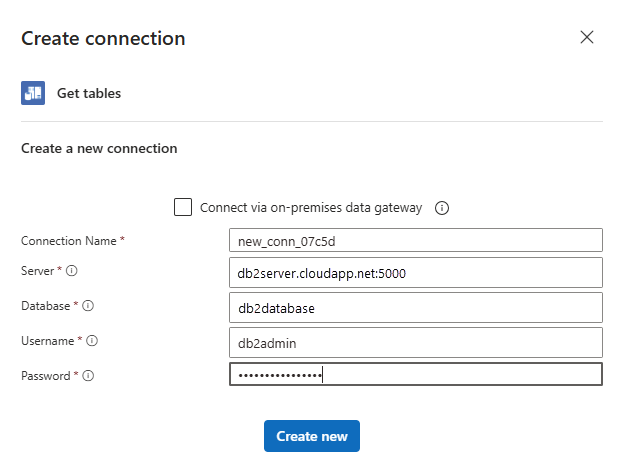
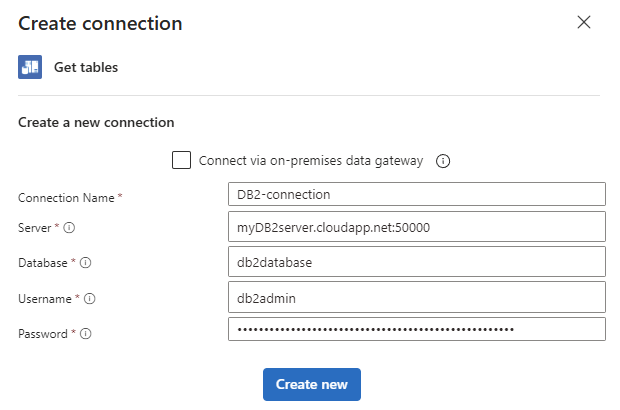
Partial refresh updates

diff --git a/articles/connectors/connectors-create-api-db2.md b/articles/connectors/connectors-create-api-db2.md
@@ -16,11 +16,11 @@ ms.custom: sfi-image-nochange
 
 When your automated integration workflow needs to work with resources in your DB2 database, use the [**DB2** connector](/connectors/db2/). For example, your workflow can read, list rows, add rows, change rows, delete rows, and so on. Your workflow can include actions that return data from your database and make that output available for other actions to use in your workflow.
 
+The DB2 connector includes a Microsoft client that communicates with remote DB2 servers across a TCP/IP network. So, you can use this connector to access cloud databases such as IBM DB2 for Windows running in Azure virtualization.
+
 This guide shows how to connect your workflow to your DB2 database and perform various operations on that database.
 
 ## Supported platforms and versions
-
-The DB2 connector includes a Microsoft client that communicates with remote DB2 servers across a TCP/IP network. Use this connector to access cloud databases such as IBM DB2 for Windows running in Azure virtualization. You can also access on-premises DB2 databases after you [install and set up the on-premises data gateway](../logic-apps/logic-apps-gateway-connection.md).
 
 The DB2 connector supports the following IBM DB2 platforms and versions along with IBM DB2 compatible products that support Distributed Relational Database Architecture (DRDA) SQL Access Manager (SQLAM) versions 10 and 11:
 
@@ -30,7 +30,7 @@ The DB2 connector supports the following IBM DB2 platforms and versions along wi
 | IBM DB2 for i | 7.3, 7.2, 7.1 |
 | IBM DB2 for LUW | 11, 10.5 |
 
-## Supported database operations
+## Connector technical reference
 
 The DB2 connector supports the following database operations, which map to the corresponding actions in the connector:
 
@@ -42,6 +42,8 @@ The DB2 connector supports the following database operations, which map to the c
 | Add one row using INSERT | Insert row |
 | Edit one row using UPDATE | Update row |
 | Remove one row using DELETE | Delete row |
+
+For more information about the connector and these actions, see [DB2 connector](/connectors/db2/).
 
 ## Prerequisites
 
@@ -60,85 +62,105 @@ The DB2 connector supports the following database operations, which map to the c
   - [Create a Consumption logic app workflow](../logic-apps/quickstart-create-example-consumption-workflow.md)
   - [Create a Standard logic app workflow](../logic-apps/create-single-tenant-workflows-azure-portal.md)
 
+- To access on-premises DB2 databases, you need to [install and set up the on-premises data gateway](../logic-apps/logic-apps-gateway-connection.md).
+
 <a name="add-db2-action"></a>
 
-## Add DB2 action - Get tables
+## Add a DB2 action
 
-1. In the [Azure portal](https://portal.azure.com), open your logic app in the Logic App Designer.
+The following steps show how to add a DB2 action, for example, **Get tables**, to your workfklow.
 
-1. Under the trigger, choose **New step**.
+1. In the [Azure portal](https://portal.azure.com), open your logic app resource and workflow in the designer.
 
-1. In the search box, enter *db2*.
+1. Follow the [general steps](../logic-apps/add-trigger-action-workflow.md#add-action) to add the **DB2** action named **Get tables**.
 
-1. For this example, under the actions list, select **Get tables (Preview)**.
+   The connection information pane opens so you can provide details to connect your DB2 database.
 
-   :::image type="content" source="./media/connectors-create-api-db2/select-db2-action.png" alt-text="Screenshot that shows the Logic App Designer with Get tables highlighted.":::
+1. Follow the steps to create a connection for a [cloud-based database](#cloud-connection) or [on-premises database](#on-premises-connection), then return here to continue.
 
-   The designer prompts you to provide connection details for your DB2 database.
+1. After you successfully create the connection, the **Get tables** action information pane appears and shows that no other information is necessary:
 
-1. Follow the steps for creating connections for [cloud databases](#cloud-connection) or [on-premises databases](#on-premises-connection).
+   :::image type="content" source="./media/connectors-create-api-db2/get-tables-action.png" alt-text="Screenshot shows the designer, workflow, and Get tables action.":::
+
+1. Continue to [Test your workflow and view output tables](#view-output-tables).
+
+## Set up your DB2 connection
+
+Follow the steps based on whether you have a cloud or on-premises DB2 database. After you provide the necessary connection details, select **Create new**, and return to the previous steps.
+
+Before you create a connection to an on-premises database, make sure that you [install and set up the on-premises data gateway](../logic-apps/logic-apps-gateway-connection.md).
 
 <a name="cloud-connection"></a>
 
-## Connect to cloud DB2
-
-To set up your connection, provide these connection details, select **Create**, and then save your logic app:
+### [Cloud](#tab/cloud)
 
 | Property | Required | Description |
 |----------|----------|-------------|
-| **Connect via on-premises gateway** | No | Applies only for on-premises connections |
-| **Connection Name** | Yes | The name for your connection, for example, *MyLogicApp-DB2-connection* |
-| **Server** | Yes | The address or alias and port number for your DB2 server, for example, *myDB2server.cloudapp.net:50000* <br><br>**Note**: This value is a string that represents a TCP/IP address or alias, either in IPv4 or IPv6 format, followed by a colon and a TCP/IP port number. |
-| **Database** | Yes | The name for your database <br><br>**Note**: This value is a string that represents a DRDA Relational Database Name (RDBNAM): <br><br>- DB2 for z/OS accepts a 16-byte string where the database is known as an *IBM DB2 for z/OS* location. <br>- DB2 for i accepts an 18-byte string where the database is known as an *IBM DB2 for i* relational database. <br>- DB2 for LUW accepts an 8-byte string. |
-| **Username** | Yes | Your user name for the database <br><br>**Note**: This value is a string whose length is based on the specific database: <br><br>- DB2 for z/OS accepts an 8-byte string. <br>- DB2 for i accepts a 10-byte string. <br>- DB2 for Linux or UNIX accepts an 8-byte string. <br>- DB2 for Windows accepts a 30-byte string. |
-| **Password** | Yes | Your password for the database |
+| **Connect via on-premises gateway** | No | Applies only to on-premises connections. |
+| **Connection Name** | Yes | The name for your connection, for example, *DB2-connection*. |
+| **Server** | Yes | The address or alias and port number for your DB2 server, for example, *myDB2server.cloudapp.net:50000*. <br><br>**Note**: This value is a string that represents a TCP/IP address or alias, either in IPv4 or IPv6 format, followed by a colon and a TCP/IP port number. |
+| **Database** | Yes | The name for your database. <br><br>**Note**: This value is a string that represents a DRDA Relational Database Name (RDBNAM): <br><br>- DB2 for z/OS accepts a 16-byte string where the database is known as an *IBM DB2 for z/OS* location. <br><br>- DB2 for i accepts an 18-byte string where the database is known as an *IBM DB2 for i* relational database. <br><br>- DB2 for LUW accepts an 8-byte string. |
+| **Username** | Yes | Your user name for the database. <br><br>**Note**: This value is a string whose length is based on the specific database: <br><br>- DB2 for z/OS accepts an 8-byte string. <br><br>- DB2 for i accepts a 10-byte string. <br><br>- DB2 for Linux or UNIX accepts an 8-byte string. <br><br>- DB2 for Windows accepts a 30-byte string. |
+| **Password** | Yes | Your password for the database. |
 
 For example:
 
-:::image type="content" source="./media/connectors-create-api-db2/create-db2-cloud-connection.png" alt-text="Screenshot that shows the Logic Apps Designer with connection details for cloud-based databases.":::
+:::image type="content" source="./media/connectors-create-api-db2/create-db2-cloud-connection.png" alt-text="Screenshot shows the connection pane for cloud-based databases.":::
 
 <a name="on-premises-connection"></a>
 
-## Connect to on-premises DB2
-
-Before you create a connection, you must already have your on-premises data gateway installed. Otherwise, you can't finish setting up the connection. If you have your gateway installation, continue by providing these connection details, and then choose **Create**.
+### [On-premises](#tab/on-premises)
 
 | Property | Required | Description |
 |----------|----------|-------------|
-| **Connect via on-premises gateway** | Yes | Applies when you want an on-premises connection and shows the on-premises connection properties |
-| **Connection Name** | Yes | The name for your connection, for example, *MyLogicApp-DB2-connection* | 
-| **Server** | Yes | The address or alias and port number for your DB2 server, for example, *myDB2server:50000* <br><br>**Note**: This value is a string that represents a TCP/IP address or alias, either in IPv4 or IPv6 format, followed by a colon and a TCP/IP port number. |
-| **Database** | Yes | The name for your database <br><br>**Note**: This value is a string that represents a DRDA Relational Database Name (RDBNAM): <br>- DB2 for z/OS accepts a 16-byte string where the database is known as an *IBM DB2 for z/OS* location. <br>- DB2 for i accepts an 18-byte string where the database is known as an *IBM DB2 for i* relational database. <br>- DB2 for LUW accepts an 8-byte string. |
-| **Authentication** | Yes | The authentication type for your connection, for example, *Basic* <br><br>**Note**: Select this value from the list, which includes **Basic** or **Windows (Kerberos)**. |
-| **Username** | Yes | Your user name for the database <br><br>**Note**: This value is a string whose length is based on the specific database: <br><br>- DB2 for z/OS accepts an 8-byte string. <br>- DB2 for i accepts a 10-byte string. <br>- DB2 for Linux or UNIX accepts an 8-byte string. <br>- DB2 for Windows accepts a 30-byte string. |
-| **Password** | Yes | Your password for the database |
-| **Gateway** | Yes | The name for your installed on-premises data gateway <br><br>**Note**: Select this value from the list, which includes all the installed data gateways within your Azure subscription and resource group. |
+| **Connect via on-premises gateway** | Yes | Applies only to on-premises connections and shows the on-premises connection properties. |
+| **Connection Name** | Yes | The name for your connection, for example, *DB2-connection*. | 
+| **Server** | Yes | The address or alias and port number for your DB2 server, for example, *myDB2server:50000*. <br><br>**Note**: This value is a string that represents a TCP/IP address or alias, either in IPv4 or IPv6 format, followed by a colon and a TCP/IP port number. |
+| **Database** | Yes | The name for your database. <br><br>**Note**: This value is a string that represents a DRDA Relational Database Name (RDBNAM): <br><br>- DB2 for z/OS accepts a 16-byte string where the database is known as an *IBM DB2 for z/OS* location. <br><br>- DB2 for i accepts an 18-byte string where the database is known as an *IBM DB2 for i* relational database. <br><br>- DB2 for LUW accepts an 8-byte string. |
+| **Authentication** | Yes | The authentication type for your connection, for example, **Windows**. <br><br>**Note**: Select this value from the list, which includes **Basic** or **Windows (Kerberos)**. |
+| **Username** | Yes | Your user name for the database. <br><br>**Note**: This value is a string whose length is based on the specific database: <br><br>- DB2 for z/OS accepts an 8-byte string. <br><br>- DB2 for i accepts a 10-byte string. <br><br>- DB2 for Linux or UNIX accepts an 8-byte string. <br><br>- DB2 for Windows accepts a 30-byte string. |
+| **Password** | Yes | Your password for the database. |
+| **Gateway** | Yes | - **Subscription**: The Azure subscription for the gateway resource. <br><br>- **Gateway**: The name for your gateway resource. <br><br>**Note**: The gateway list shows only the gateway resources available in your Azure subscription and resource group. |
 
 For example:
 
-:::image type="content" source="./media/connectors-create-api-db2/create-db2-on-premises-connection.png" alt-text="Screenshot that shows the Logic Apps Designer with connection details for on-premises databases.":::
+:::image type="content" source="./media/connectors-create-api-db2/create-db2-on-premises-connection.png" alt-text="Screenshot shows the connection pane for on-premises databases.":::
 
-### View output tables
+---
 
-To run your logic app manually, on the designer toolbar, choose **Run**. After your logic app finishes running, you can view the output from the run.
+<a name="view-output-tables"></a>
 
-1. On your logic app menu, select **Overview**.
+### Test your workflow and view output tables
 
-1. Under **Summary**, in the **Runs history** section, select the most recent run, which is the first item in the list.
+To manually run your workflow, on the designer toolbar, from the **Run** list, select **Run**. After your workflow completes, you can view the output from the run.
 
-   :::image type="content" source="./media/connectors-create-api-db2/run-history.png" alt-text="Screenshot that shows the Runs history section.":::
+1. If the run details page doesn't open, follow these steps based on your logic app:
 
-1. Under **Logic app run**, review the status, inputs, and outputs for each step in your logic app. Expand the **Get tables** action.
+   - **Consumption**: On the logic app sidebar, under **Development Tools**, select **Logic app designer**.
+
+   - **Standard**: On the workflow sidebar, select **Run history**.
+
+1. In the **Runs history** list, select the latest workflow run, for example:
+
+   - **Consumption**
+
+     :::image type="content" source="./media/connectors-create-api-db2/run-history-consumption.png" alt-text="Screenshot shows Run history list for Consumption workflow.":::
+
+   - **Standard**
+
+     :::image type="content" source="./media/connectors-create-api-db2/run-history-standard.png" alt-text="Screenshot shows Run history list for Standard workflow.":::
+
+1. On the run details page, review the status for each step in your workflow. To view the inputs and outputs for each step, select that step, for example:
 
    :::image type="content" source="./media/connectors-create-api-db2/expand-action-step.png" alt-text="Screenshot that shows how to expand the Get tables action.":::
 
-1. To view the inputs, select **Show raw inputs**.
+   1. To view the inputs in JSON, select **Show raw inputs**.
 
-1. To view the outputs, select **Show raw outputs**.
+   1. To view the outputs in JSON, select **Show raw outputs**.
 
-   The outputs include a list of tables.
+      The outputs include a list of tables.
 
-   :::image type="content" source="./media/connectors-create-api-db2/db2-connector-get-tables-outputs.png" alt-text="Screenshot that shows code that specifies the output tables.":::
+      :::image type="content" source="./media/connectors-create-api-db2/db2-connector-get-tables-outputs.png" alt-text="Screenshot that shows code that specifies the output tables.":::
 
 ## Get row
 
@@ -348,10 +370,6 @@ To run your logic app manually, on the designer toolbar, choose **Run**. After y
    The outputs no longer include the record you deleted from your specified table.
 
    :::image type="content" source="./media/connectors-create-api-db2/db2-connector-delete-row-outputs.png" alt-text="Screenshot shows the Output area, which no longer includes the deleted row.":::
-
-## Connector reference
-
-For more technical details about this connector, such as triggers, actions, and limits as described by the connector's Swagger file, see the [connector's reference page](/connectors/db2/).
 
 ## Related content
 
